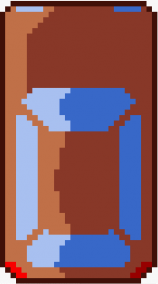
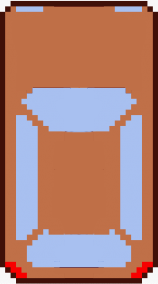
Gestion de la vie des voitures

diff --git a/testGamePad.html b/testGamePad.html
@@ -247,7 +247,7 @@
 	var downTemp = false;
 	var dirTemp = 0;
 
-	function drawCar(nCar, posX, posY, larg, haut, angle){
+	function drawCar(nCar, posX, posY, larg, haut, angle, life){
 		ctx.save();
 		ctx.translate(posX,posY);
 		ctx.rotate(angle);
@@ -255,20 +255,26 @@
 		var carX = nCar / 2;
 		var carY = nCar % 2;
 
-		ctx.drawImage(getCar[nCar],0,0,getCar[nCar].width, getCar[nCar].height, -larg/2, -haut/2,larg,haut);
+		ctx.drawImage(getCar[nCar%6],0,0,getCar[nCar%6].width, getCar[nCar%6].height, -larg/2, -haut/2,larg,haut);
 		ctx.restore();
 
 		ctx.beginPath();
-      	ctx.arc(posX, posY, (haut+larg)/4, 0, 2 * Math.PI, false);
-      	ctx.lineWidth = 5;
-	    ctx.strokeStyle = '#003300';
+      	ctx.arc(posX, posY, haut/1.5, 0, 2 * Math.PI, false);
+      	ctx.lineWidth = 2;
+	    ctx.strokeStyle = '#000000';
 	    ctx.stroke();
+
+		ctx.beginPath();
+      	ctx.arc(posX, posY, haut/1.5, 0, 2 * Math.PI*life/100.0, false);
+      	ctx.lineWidth = 5;
+	    ctx.strokeStyle = '#00AA00';
+	    ctx.stroke();
+
+	    
 	}
 
 	multipl = 1;
-	multiplGrow = true;context.lineWidth = 5;
-      context.strokeStyle = '#003300';
-      context.stroke();
+	multiplGrow = true;
 
 	angleGrow = true;
 
@@ -386,7 +392,7 @@
 		ctx.clearRect(0,0,canvas.width,canvas.height);
 
 		for(i = 0 ; i < allPlayers.length ; i++){
-			drawCar(i, allPlayers[i].posX, allPlayers[i].posY, carWidth, carHeight, allPlayers[i].angle);
+			drawCar(i, allPlayers[i].posX, allPlayers[i].posY, carWidth, carHeight, allPlayers[i].angle, allPlayers[i].life);
 		}
 		//document.getElementById("speedPrompt").innerHTML="Speed : " + speed;
 	}

diff --git a/game-server.js b/game-server.js
@@ -47,7 +47,8 @@ wsServer.on('request', function(request) {
 		posX : WIDTH/2,
 		posY : HEIGHT/2,
 		speed : 0,
-		angle : 0	
+		angle : 0,
+		life : 100	
 	}) -1;
 	clients.index = index;
 
@@ -124,6 +125,7 @@ wsServer.on('request', function(request) {
 
 					if (Math.abs(vectX1*vectX2+vectY1*vectY2) < 0.5){
 
+						clients[i].life = Math.max(clients[i].life - Math.abs(clients[index].speed/7.0*10.0), 0);
 						clients[index].speed = 0;
 						clients[i].posX = clients[index].posX+vectX1*(HITBOX_WIDTH+1);
 						clients[i].posY = clients[index].posY+vectY1*(HITBOX_WIDTH+1);
